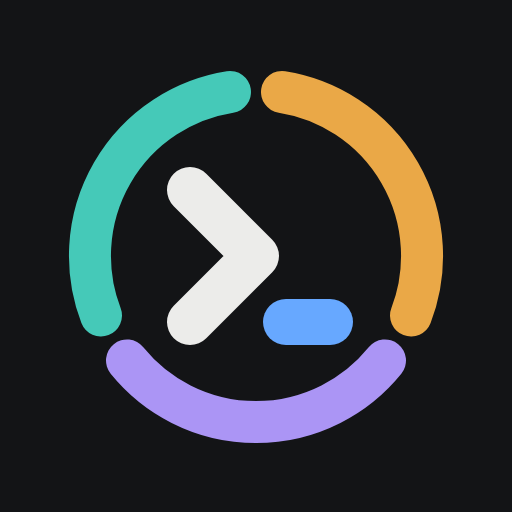
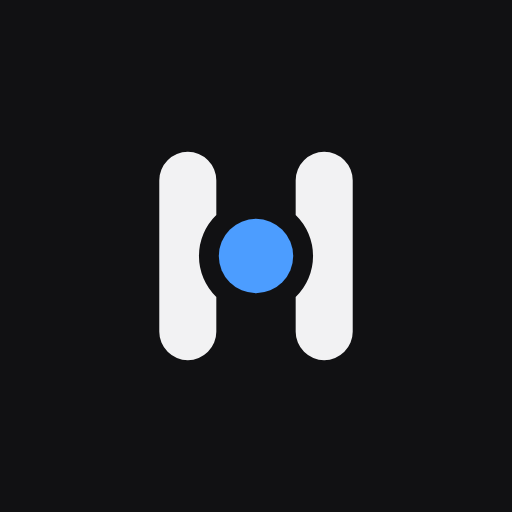
auto-sync from TAXMAN

Changed region(s): [[0.125, 0.125, 0.875, 0.875]]

diff --git a/hub/public/sw.js b/hub/public/sw.js
@@ -1,6 +1,6 @@
 // Push notifications + an offline shell. API calls are never cached: stale agent state is worse than none.
-const SHELL = 'hub-shell-v6';
-const FILES = ['./', 'index.html', 'app.css', 'app.js', 'manifest.webmanifest', 'icon.svg', 'icon-180.png', 'icon-512.png', 'vendor/marked.js', 'vendor/purify.js'];
+const SHELL = 'hub-shell-v7';
+const FILES = ['./', 'index.html', 'app.css', 'app.js', 'manifest.webmanifest', 'icon.svg', 'icon-180.png', 'icon-512.png', 'badge-96.png', 'vendor/marked.js', 'vendor/purify.js'];
 
 self.addEventListener('install', e => { e.waitUntil(caches.open(SHELL).then(c => c.addAll(FILES)).then(() => self.skipWaiting())); });
 self.addEventListener('activate', e => {
@@ -18,7 +18,7 @@ self.addEventListener('push', e => {
   let p = {};
   try { p = e.data?.json() ?? {}; } catch { p = { body: e.data?.text() }; }
   e.waitUntil(self.registration.showNotification(p.title || 'Hub', {
-    body: p.body || '', tag: p.tag, renotify: !!p.tag, icon: 'icon-180.png', badge: 'icon-180.png', data: { url: p.url || '/' },
+    body: p.body || '', tag: p.tag, renotify: !!p.tag, icon: 'icon-180.png', badge: 'badge-96.png', data: { url: p.url || '/' },
   }));
 });
 self.addEventListener('notificationclick', e => {

diff --git a/hub/brand/make.py b/hub/brand/make.py
@@ -1,0 +1,28 @@
+# Hub logo masters. usage: python3 make.py <out-dir>  (PNGs are rendered from hub-icon.svg / hub-icon-small.svg)
+import math, sys, os
+out = sys.argv[1]; os.makedirs(out, exist_ok=True)
+f = lambda v: f"{v:.2f}".rstrip('0').rstrip('.')
+def mark(gap_r=46, dot_r=30, w=46, top=44, bot=212):
+    cx = cy = 128; r = w / 2; L0, L1 = 50, 50 + w; R1 = 206; R0 = R1 - w
+    dy = math.sqrt(gap_r**2 - (cx - L1)**2)
+    left = (f"M{f(L0+r)} {top}H{f(L1-r)}A{f(r)} {f(r)} 0 0 1 {f(L1)} {f(top+r)}V{f(cy-dy)}A{gap_r} {gap_r} 0 0 0 {f(L1)} {f(cy+dy)}"
+            f"V{f(bot-r)}A{f(r)} {f(r)} 0 0 1 {f(L1-r)} {bot}H{f(L0+r)}A{f(r)} {f(r)} 0 0 1 {L0} {f(bot-r)}V{f(top+r)}A{f(r)} {f(r)} 0 0 1 {f(L0+r)} {top}Z")
+    right = (f"M{f(R0+r)} {top}H{f(R1-r)}A{f(r)} {f(r)} 0 0 1 {R1} {f(top+r)}V{f(bot-r)}A{f(r)} {f(r)} 0 0 1 {f(R1-r)} {bot}H{f(R0+r)}"
+             f"A{f(r)} {f(r)} 0 0 1 {R0} {f(bot-r)}V{f(cy+dy)}A{gap_r} {gap_r} 0 0 0 {R0} {f(cy-dy)}V{f(top+r)}A{f(r)} {f(r)} 0 0 1 {f(R0+r)} {top}Z")
+    return left + right, cx, cy, dot_r
+INK, LIVE, TILE = '#f2f2f3', '#4c9dff', '#111113'
+def doc(title, body): return f'<svg xmlns="http://www.w3.org/2000/svg" viewBox="0 0 256 256"><title>{title}</title>{body}</svg>\n'
+def placed(scale, stems, dot, **k):
+    d, cx, cy, r = mark(**k)
+    return (f'<g transform="translate(128 128) scale({scale}) translate(-128 -128)">'
+            f'<path fill="{stems}" d="{d}"/><circle fill="{dot}" cx="{cx}" cy="{cy}" r="{r}"/></g>')
+# Hub mark: two machines lean in toward one live dot.
+files = {
+  'hub-icon.svg':        doc('Hub', f'<rect width="256" height="256" fill="{TILE}"/>' + placed(0.62, INK, LIVE)),
+  'hub-icon-small.svg':  doc('Hub', f'<rect width="256" height="256" rx="56" fill="{TILE}"/>' + placed(0.84, INK, LIVE, gap_r=52, dot_r=28)),  # 16-32 px: bigger mark, wider gap
+  'hub-mark.svg':        doc('Hub', placed(1, INK, LIVE)),
+  'hub-mark-black.svg':  doc('Hub', placed(1, '#000', '#000')),
+  'hub-mark-white.svg':  doc('Hub', placed(1, '#fff', '#fff')),
+  'hub-badge.svg':       doc('Hub', placed(0.9, '#fff', '#fff', gap_r=52, dot_r=28)),  # notification badge: alpha only
+}
+for n, s in files.items(): open(f'{out}/{n}', 'w').write(s)

diff --git a/DESIGN.md b/DESIGN.md
@@ -87,6 +87,18 @@ spacing:
 - **Navigation:** one tab bar on the phone (Machines · Threads · Projects · Accounts · Files), on every screen, with icon plus 11px label and the active tab in full text colour. It hides while a field has focus. On desktop the same sections are links in the sidebar. A screen's top bar holds only back (for pushed screens like a thread) and that screen's own actions. There are no segmented controls for sections.
 - **Touch:** 44px targets, and the composer stays pinned above the safe area.
 
+## Logo
+
+**Link:** two pillars (machines) lean in toward one live dot, so the H is drawn as a connection. The masters and their generator are in `hub/brand/`; run `python3 hub/brand/make.py <dir>` to rebuild every SVG.
+
+- **Colours:** the pillars are `text` #f2f2f3 and the dot is `live-blue` #4c9dff, on a #111113 tile. On light backgrounds use `hub-mark-black.svg`; on photos or colour use the one-colour white or black version. Never recolour only the pillars.
+- **Files:**
+  - `icon-180.png` and `icon-512.png` are full-bleed tiles at 62% mark scale, safe for iOS and maskable cropping.
+  - `icon.svg` is the small-size cut for 16–32 px (favicon, sidebar). It has a larger mark, a wider gap around the dot and a rounded tile.
+  - `badge-96.png` is the white-on-transparent notification badge.
+- **Clear space:** leave one pillar width around the mark. Minimum size is 16 px, using the small cut.
+- **Don't:** rotate it, outline it, add gradients or shadows, put text inside the tile, or swap the dot for another shape.
+
 ## Retired
 
 The night-game scoreboard world was removed on 2026-11-27 because the owner found it gimmicky and "vibe coded". It had a green housing, Barlow Condensed numerals, LED cells, an orange possession arrow, ON DECK and SUB stamps. Don't bring any of it back.
